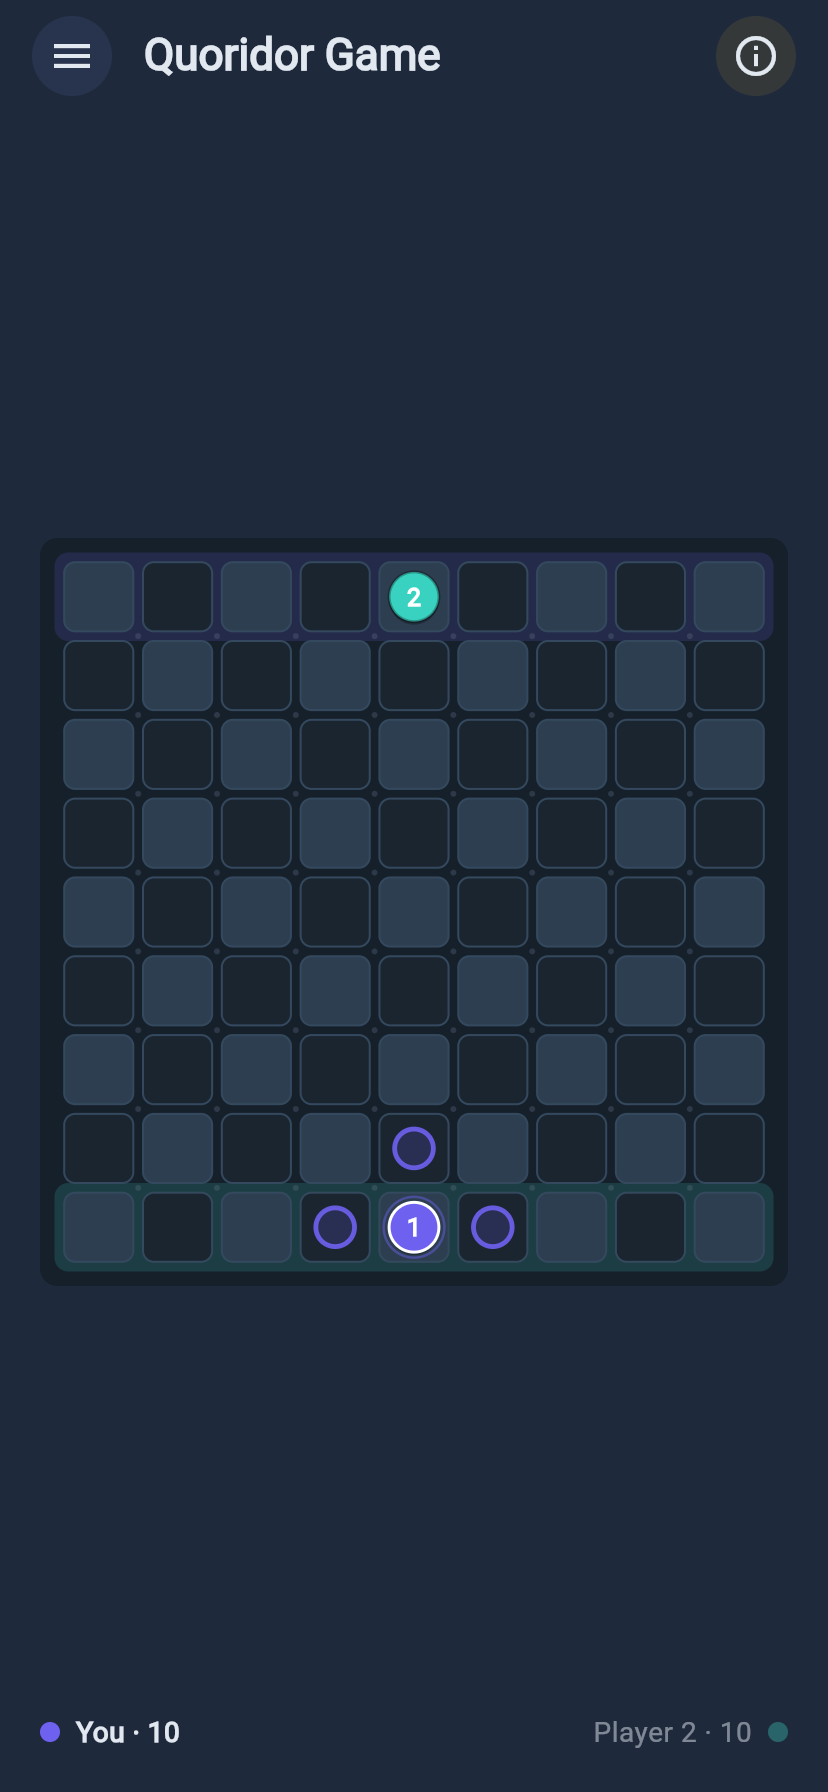
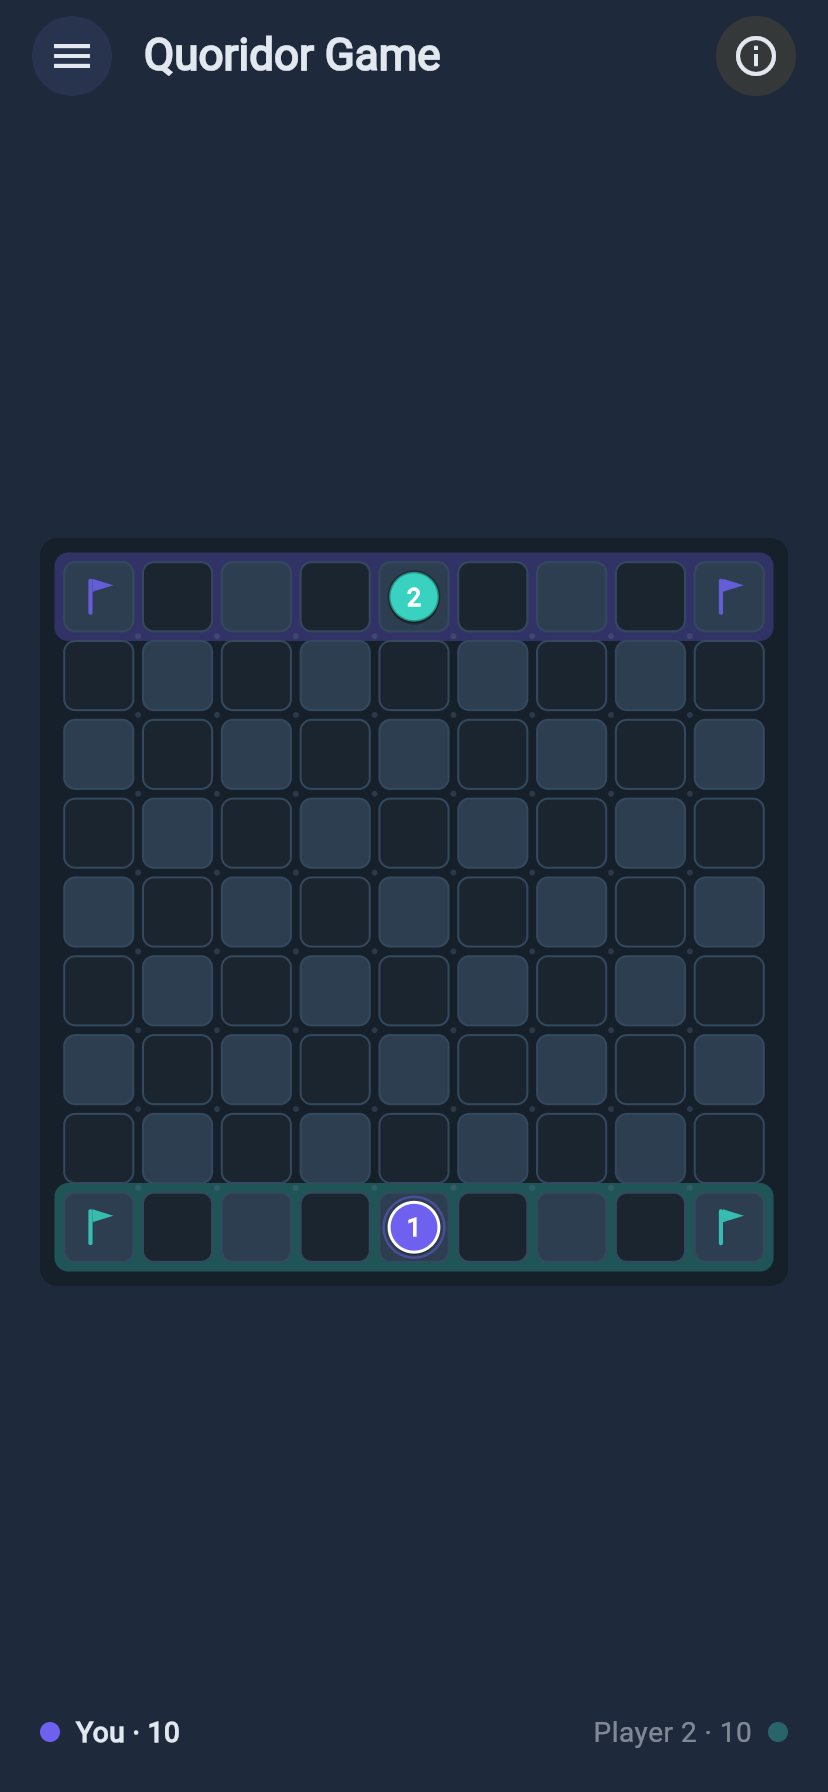
Flags on the goal rows, two-tap moves, and walls in each player's colour
Three things asked for after playing the simplified board.

Goal rows carry flags again. The row tint was also back at the strength it
used to be -- it had been softened to 0.16 and is now 0.3 as before. The flags
have to be drawn after the grid, not with the tint: the cells are opaque, so
anything painted underneath them is simply covered up.

Moving is two taps again. Tap your pawn to pick it up and the squares it can
reach are ringed; tap one to go there, or anywhere else to put the pawn back
down. Nothing is highlighted until the pawn is picked up, so the board stays
quiet while you are thinking, and a picked-up pawn gets a solid ring so it is
clear it is in hand.

Walls take the colour of whoever placed them. A Wall carries only a position
and an orientation, which is all the rules need, so the owner is worked out
from the move history; a wall with no matching move falls back to the neutral
colour.

One thing worth recording, because I got it wrong on the way: making a tap in
a gap resolve to "no cell" seemed tidy, but the gaps are about five pixels
wide, which made walls essentially unplaceable with a finger. Which target a
tap means is decided by what is actionable instead -- your pawn, then a
highlighted destination, then a wall -- so aiming a wall has a whole cell to
work with.

Claude-Session: https://claude.ai/code/session_018MctSY9xbiE2iCSkYMFfts

diff --git a/lib/flame/board_component.dart b/lib/flame/board_component.dart
@@ -21,6 +21,13 @@ class BoardComponent extends PositionComponent {
   /// page can rebuild its controls (mode, ghost wall, validity message).
   VoidCallback? onInteractionChanged;
 
+  /// The pawn the player has picked up, if any.
+  ///
+  /// Moving is two taps again: one on your pawn to pick it up, one on where
+  /// you want it. Nothing is highlighted until you pick the pawn up, which
+  /// keeps the board quiet while you are thinking.
+  Position? _selectedPawn;
+
   List<Position> _validMoves = const [];
 
   /// The wall the player is lining up but has not committed yet.
@@ -50,6 +57,7 @@ class BoardComponent extends PositionComponent {
   void updateGameState(GameState newGameState) {
     _gameState = newGameState;
     _wallComponent.gameState = newGameState;
+    _selectedPawn = null;
     _clearPendingWall();
     _refreshValidMoves();
     _wallComponent.showSlots = newGameState.currentPlayer.hasWallsRemaining;
@@ -62,6 +70,7 @@ class BoardComponent extends PositionComponent {
     _drawBoardSurface(canvas);
     _drawGoalRows(canvas);
     _drawGrid(canvas);
+    _drawGoalFlags(canvas);
     _drawValidMoves(canvas);
     _drawPawns(canvas);
   }
@@ -79,20 +88,31 @@ class BoardComponent extends PositionComponent {
   void handleTap(Vector2 position) {
     _ensureMetrics();
     final offset = Offset(position.x, position.y);
-
-    // Moving takes priority, but only on a square that is actually offered:
-    // the legal squares are the few glowing circles, so a tap on one is never
-    // ambiguous. Every other tap on the board is aiming a wall.
     final tapped = _metrics.positionAt(offset);
-    if (tapped != null && _validMoves.contains(tapped)) {
-      final center = _metrics.cellCenter(tapped);
-      if ((offset - center).distance <= _metrics.cellSize * 0.5) {
-        _clearPendingWall();
-        onMoveAttempted?.call(tapped);
-        return;
-      }
+
+    // Tapping your own pawn picks it up, or puts it back down.
+    if (tapped != null && tapped == _gameState.currentPlayer.position) {
+      _clearPendingWall();
+      _selectedPawn = _selectedPawn == tapped ? null : tapped;
+      _refreshValidMoves();
+      onInteractionChanged?.call();
+      return;
     }
 
+    // While a pawn is held, the board is about moving it and nothing else.
+    if (_selectedPawn != null) {
+      if (tapped != null && _validMoves.contains(tapped)) {
+        onMoveAttempted?.call(tapped);
+      } else {
+        _selectedPawn = null;
+        _refreshValidMoves();
+        onInteractionChanged?.call();
+      }
+      return;
+    }
+
+    // Pawn down: the rest of the board aims a wall, which gives a whole cell
+    // to aim with rather than the few pixels of the gap itself.
     if (_gameState.currentPlayer.hasWallsRemaining) _aimWall(offset);
   }
 
@@ -155,20 +175,18 @@ class BoardComponent extends PositionComponent {
   }
 
   void handleHover(Vector2 position) {
+    if (_selectedPawn != null) return;
     _ensureMetrics();
-    final offset = Offset(position.x, position.y);
-    final tapped = _metrics.positionAt(offset);
-    if (tapped != null && _validMoves.contains(tapped)) {
-      _wallComponent.previewWall = null;
-      return;
+    if (_gameState.currentPlayer.hasWallsRemaining) {
+      _aimWall(Offset(position.x, position.y));
     }
-    if (_gameState.currentPlayer.hasWallsRemaining) _aimWall(offset);
   }
 
   void _refreshValidMoves() {
-    _validMoves = _gameState.isGameOver
+    final selected = _selectedPawn;
+    _validMoves = (selected == null || _gameState.isGameOver)
         ? const []
-        : _gameState.getValidMoves(_gameState.currentPlayer.position);
+        : _gameState.getValidMoves(selected);
   }
 
   // --- Rendering ---------------------------------------------------------
@@ -187,28 +205,86 @@ class BoardComponent extends PositionComponent {
     );
   }
 
-  /// Tints each player's target row so the direction of play is obvious at a
-  /// glance instead of being a thin line at the board edge.
+  /// Tints each player's target row, so it is obvious which way you are
+  /// running without reading anything. The flags go on top, in
+  /// [_drawGoalFlags].
   void _drawGoalRows(Canvas canvas) {
-    void tintRow(int row, Color color) {
-      final rect = Rect.fromLTRB(
-        _metrics.cellRect(Position(row, 0)).left - _metrics.spacing,
-        _metrics.cellRect(Position(row, 0)).top - _metrics.spacing,
-        _metrics.cellRect(Position(row, GameConstants.boardSize - 1)).right +
-            _metrics.spacing,
-        _metrics.cellRect(Position(row, 0)).bottom + _metrics.spacing,
+    void markRow(int row, Color color) {
+      final first = _metrics.cellRect(Position(row, 0));
+      final last = _metrics.cellRect(
+        Position(row, GameConstants.boardSize - 1),
       );
+
+      final rect = Rect.fromLTRB(
+        first.left - _metrics.spacing,
+        first.top - _metrics.spacing,
+        last.right + _metrics.spacing,
+        first.bottom + _metrics.spacing,
+      );
+
       canvas.drawRRect(
         RRect.fromRectAndRadius(rect, Radius.circular(_metrics.cellSize * 0.2)),
         Paint()
-          ..color = color.withValues(alpha: 0.16)
+          ..color = color.withValues(alpha: 0.3)
           ..style = PaintingStyle.fill,
       );
     }
 
     // Player 1 runs to the top row, player 2 to the bottom row.
-    tintRow(GameConstants.player1Goal, const Color(GameConstants.player1Color));
-    tintRow(GameConstants.player2Goal, const Color(GameConstants.player2Color));
+    markRow(GameConstants.player1Goal, const Color(GameConstants.player1Color));
+    markRow(GameConstants.player2Goal, const Color(GameConstants.player2Color));
+  }
+
+  /// Flags at both ends of each goal row.
+  ///
+  /// Drawn after the grid: the cells are opaque, so anything painted with the
+  /// row tint underneath them would simply be covered up.
+  void _drawGoalFlags(Canvas canvas) {
+    void flagsOn(int row, Color color) {
+      _drawFlag(canvas, _metrics.cellCenter(Position(row, 0)), color);
+      _drawFlag(
+        canvas,
+        _metrics.cellCenter(Position(row, GameConstants.boardSize - 1)),
+        color,
+      );
+    }
+
+    flagsOn(GameConstants.player1Goal, const Color(GameConstants.player1Color));
+    flagsOn(GameConstants.player2Goal, const Color(GameConstants.player2Color));
+  }
+
+  /// A small pennant on a pole, centred on [center].
+  void _drawFlag(Canvas canvas, Offset center, Color color) {
+    final height = _metrics.cellSize * 0.52;
+    final width = _metrics.cellSize * 0.3;
+    final poleWidth = _metrics.cellSize * 0.06;
+
+    final top = center.dy - height / 2;
+    final poleX = center.dx - width / 2;
+
+    canvas.drawRRect(
+      RRect.fromRectAndRadius(
+        Rect.fromLTWH(poleX, top, poleWidth, height),
+        Radius.circular(poleWidth / 2),
+      ),
+      Paint()
+        ..color = color.withValues(alpha: 0.85)
+        ..style = PaintingStyle.fill,
+    );
+
+    // The pennant hangs from the top of the pole.
+    final pennant = Path()
+      ..moveTo(poleX + poleWidth, top)
+      ..lineTo(poleX + poleWidth + width, top + height * 0.18)
+      ..lineTo(poleX + poleWidth, top + height * 0.36)
+      ..close();
+
+    canvas.drawPath(
+      pennant,
+      Paint()
+        ..color = color.withValues(alpha: 0.85)
+        ..style = PaintingStyle.fill,
+    );
   }
 
   void _drawGrid(Canvas canvas) {
@@ -273,6 +349,7 @@ class BoardComponent extends PositionComponent {
       const Color(GameConstants.player1Color),
       '1',
       _gameState.currentPlayerId == 1,
+      _selectedPawn == _gameState.player1.position,
     );
     _drawPawn(
       canvas,
@@ -280,6 +357,7 @@ class BoardComponent extends PositionComponent {
       const Color(GameConstants.player2Color),
       '2',
       _gameState.currentPlayerId == 2,
+      _selectedPawn == _gameState.player2.position,
     );
   }
 
@@ -289,6 +367,7 @@ class BoardComponent extends PositionComponent {
     Color color,
     String label,
     bool isCurrentPlayer,
+    bool isSelected,
   ) {
     final center = _metrics.cellCenter(position);
     final radius = _metrics.cellSize * 0.36;
@@ -320,15 +399,15 @@ class BoardComponent extends PositionComponent {
         ..strokeWidth = radius * 0.12,
     );
 
-    // A halo marks whose turn it is.
-    if (isCurrentPlayer) {
+    // A halo marks whose turn it is; a solid ring marks a pawn picked up.
+    if (isCurrentPlayer || isSelected) {
       canvas.drawCircle(
         center,
-        radius * 1.22,
+        radius * (isSelected ? 1.34 : 1.22),
         Paint()
-          ..color = color.withValues(alpha: 0.45)
+          ..color = color.withValues(alpha: isSelected ? 1 : 0.45)
           ..style = PaintingStyle.stroke
-          ..strokeWidth = radius * 0.1,
+          ..strokeWidth = radius * (isSelected ? 0.16 : 0.1),
       );
     }
 

diff --git a/lib/flame/wall_component.dart b/lib/flame/wall_component.dart
@@ -48,14 +48,40 @@ class WallComponent extends PositionComponent {
     }
   }
 
+  /// Who placed each wall, worked out from the move history.
+  ///
+  /// The wall itself does not record an owner -- it is just a position and an
+  /// orientation, which is all the rules need -- so the history is the source
+  /// for this. A wall with no matching move (an older saved game, say) falls
+  /// back to the neutral colour.
+  Map<Wall, int> get _wallOwners {
+    final owners = <Wall, int>{};
+    for (final move in gameState.moveHistory) {
+      final wall = move.wall;
+      if (move.type == MoveType.wallPlace && wall != null) {
+        owners[wall] = move.playerId;
+      }
+    }
+    return owners;
+  }
+
+  Color _wallColor(int? ownerId) {
+    switch (ownerId) {
+      case 1:
+        return const Color(GameConstants.player1Color);
+      case 2:
+        return const Color(GameConstants.player2Color);
+      default:
+        return Color(
+          isDarkModeNotifier.value
+              ? GameConstants.wallColorDark
+              : GameConstants.wallColor,
+        );
+    }
+  }
+
   void _drawWalls(Canvas canvas) {
-    final wallPaint = Paint()
-      ..color = Color(
-        isDarkModeNotifier.value
-            ? GameConstants.wallColorDark
-            : GameConstants.wallColor,
-      )
-      ..style = PaintingStyle.fill;
+    final owners = _wallOwners;
 
     final shadowPaint = Paint()
       ..color = Colors.black.withValues(alpha: 0.3)
@@ -72,7 +98,12 @@ class WallComponent extends PositionComponent {
         ),
         shadowPaint,
       );
-      canvas.drawRRect(RRect.fromRectAndRadius(rect, radius), wallPaint);
+      canvas.drawRRect(
+        RRect.fromRectAndRadius(rect, radius),
+        Paint()
+          ..color = _wallColor(owners[wall])
+          ..style = PaintingStyle.fill,
+      );
     }
   }
 

diff --git a/lib/flame/board/board_metrics.dart b/lib/flame/board/board_metrics.dart
@@ -118,6 +118,11 @@ class BoardMetrics {
   }
 
   /// The cell under [point], or null when the point falls outside the grid.
+  ///
+  /// A point in the gap after a cell still resolves to that cell: the gaps are
+  /// only a few pixels wide, so treating them as their own target would make
+  /// walls almost impossible to place with a finger. Which target a tap means
+  /// is decided in [BoardComponent] by what is actionable, not by pixels.
   Position? positionAt(Offset point) {
     final x = point.dx - _left;
     final y = point.dy - _top;
@@ -126,6 +131,7 @@ class BoardMetrics {
     final col = (x / step).floor();
     final row = (y / step).floor();
     if (row < 0 || row >= _n || col < 0 || col >= _n) return null;
+
     return Position(row, col);
   }
 

diff --git a/README.md b/README.md
@@ -26,13 +26,13 @@ build is deployed to GitHub Pages from `main` on every push.
 
 ## Screenshots
 
-| Choose a game mode | The board | Aiming a wall |
+| Choose a game mode | The board | Pawn picked up |
 |---|---|---|
-| ![Game mode selection](docs/screenshots/01-game-mode.png) | ![The board, with reachable squares ringed](docs/screenshots/02-board.png) | ![A wall previewed in green](docs/screenshots/03-wall-aim.png) |
+| ![Game mode selection](docs/screenshots/01-game-mode.png) | ![The board, with a flagged goal row at each end](docs/screenshots/02-board.png) | ![The pawn picked up, showing where it can go](docs/screenshots/03-move.png) |
 
-| Wall placed | Settings |
-|---|---|
-| ![A placed wall on the board](docs/screenshots/04-wall-placed.png) | ![Settings drawer](docs/screenshots/05-menu.png) |
+| Aiming a wall | Walls placed | Settings |
+|---|---|---|
+| ![A wall previewed in green](docs/screenshots/04-wall-aim.png) | ![One wall from each player, in their own colours](docs/screenshots/05-walls.png) | ![Settings drawer](docs/screenshots/06-menu.png) |
 
 All screenshots are from the web build, captured at phone size.
 
@@ -52,20 +52,24 @@ wall may never leave either player with no path at all to their goal row. It
 may only make the journey longer.
 
 You win by reaching the row on the opposite side of the board. Player 1 starts
-at the bottom and runs to the top row; player 2 does the reverse. Both goal rows
-are tinted on the board in the owner's colour.
+at the bottom and runs to the top row; player 2 does the reverse. Each goal row
+is tinted and carries a flag at both ends, in that player's colour.
 
 ### The controls
 
 There are none — the board is the whole interface.
 
-- **To move**, tap one of the squares ringed in your colour. Those are exactly
-  the squares you can legally reach, so there is no pawn to select first and
-  nothing to read.
-- **To place a wall**, tap the gap between two squares. Faint dots mark every
-  gap a wall can go in. The wall appears green if it can go there and red if it
-  cannot, and a second tap on the same spot places it. Aiming slightly nearer
-  the other gap turns the wall, so there is no rotate button either.
+- **To move**, tap your pawn to pick it up. The squares it can legally reach
+  are ringed in your colour; tap one to go there. Tapping anywhere else puts
+  the pawn back down.
+- **To place a wall**, with your pawn down, tap roughly where you want it. The
+  wall snaps to the nearest gap and appears green if it can go there, red if it
+  cannot. A second tap in the same place puts it down. Aiming slightly nearer
+  the other gap turns the wall, so there is no rotate button.
+
+Walls carry the colour of whoever placed them, and each goal row is tinted and
+flagged in its owner's colour, so which way you are running is obvious without
+reading anything.
 
 Under the board is a single line with each player's name and how many walls
 they have left; the player to move is the bold one.
